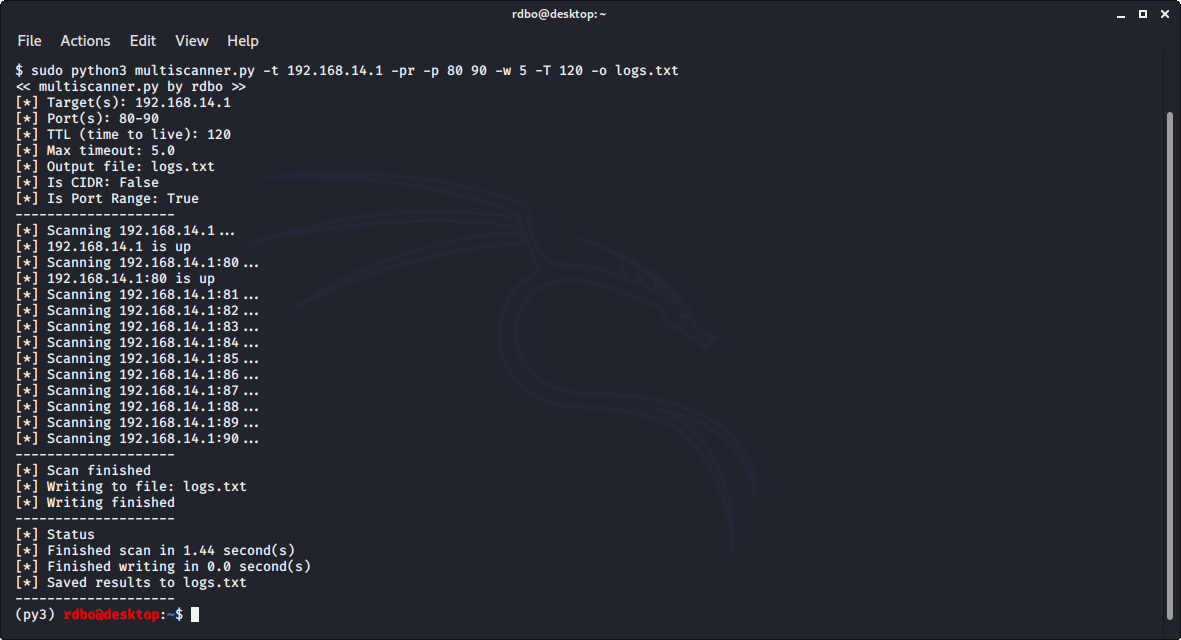
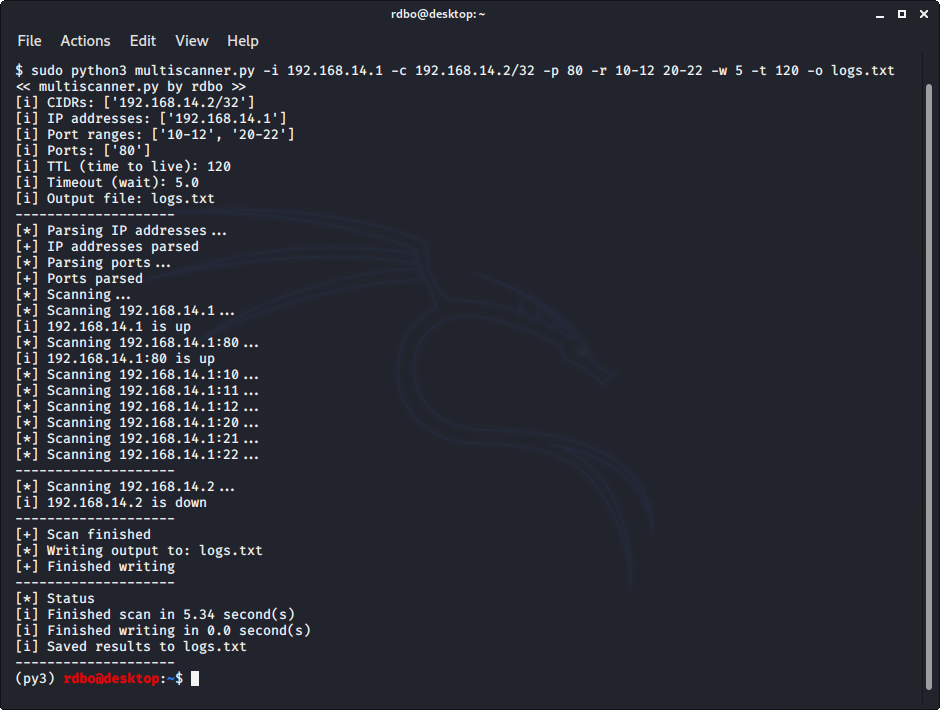
Add files via upload

diff --git a/multiscanner/multiscanner.py b/multiscanner/multiscanner.py
@@ -3,6 +3,7 @@ import argparse
 import datetime
 import time
 import netaddr
+import sys
 from scapy.all import *
 
 def usage():
@@ -17,96 +18,137 @@ def usage():
     print(f"-w (--wait)[optional]:         specify the wait time before timeout")
     print(f"-o (--output)[optional]:       specify the output file")
 
-def multiscan(targets : list, ports : list, wait : float, timetolive : int, output_file : str, is_cidr : bool, is_port_range : bool):
-    target_list = []
-    port_list = []
-    up_targets = []
-    up_ports = {}
-    delay = 0.75
+def multiscan(cidrs : list, ip_addrs : list, port_ranges : list, ports : list, timetolive : int, wait : int, output_file : str):
+
+    #Info
+
     init_str = "<< multiscanner.py by rdbo >>"
     separate_str = "--------------------"
+    delay = 0.5
 
-    #CIDR
-    if(is_cidr == True):
-        for target in targets:
-            try:
-                temp_target_list = [str(ip) for ip in netaddr.IPNetwork(target)]
-                target_list += temp_target_list
-            except:
-                print(f"[!] Error while resolving {target} as CIDR, exiting...")
-                exit(0)
-    else:
-        target_list = targets
+    print(init_str)
+    time.sleep(delay)
+    if(len(cidrs) > 0):
+        print(f"[i] CIDRs: {[cidr for cidr in cidrs]}")
+        time.sleep(delay)
+    if(len(ip_addrs) > 0):
+        print(f"[i] IP addresses: {[ip for ip in ip_addrs]}")
+        time.sleep(delay)
+    if(len(port_ranges) > 0):
+        print(f"[i] Port ranges: {[pr for pr in port_ranges]}")
+        time.sleep(delay)
+    if(len(ports) > 0):
+        print(f"[i] Ports: {[port for port in ports]}")
+        time.sleep(delay)
+    print(f"[i] TTL (time to live): {timetolive}")
+    time.sleep(delay)
+    print(f"[i] Timeout (wait): {wait}")
+    time.sleep(delay)
+    if(len(output_file) > 0):
+        print(f"[i] Output file: {output_file}")
+        time.sleep(delay)
 
-    #Port Range
-    if(is_port_range == True and len(ports) > 0):
-        port_list = [int(port) for port in range(int(ports[0]), int(ports[-1])+1)]
-    elif(len(ports) > 0):
-        port_list = [int(port) for port in ports]
+    print(separate_str)
 
+    #Variables
 
-    try:
-        print(init_str)
-        time.sleep(delay)
-        print(f"[*] Target(s): {', '.join([target for target in targets])}")
-        if(is_port_range == True and len(port_list) > 0):
-            print(f"[*] Port(s): {port_list[0]}-{port_list[-1]}")
-        elif(len(port_list) > 0):
-            print(f"[*] Port(s): {[port for port in port_list]}")
-        time.sleep(delay)
-        print(f"[*] TTL (time to live): {timetolive}")
-        time.sleep(delay)
-        print(f"[*] Max timeout: {wait}")
-        time.sleep(delay)
-        if(len(output_file) > 0):
-            print(f"[*] Output file: {output_file}")
-        time.sleep(delay)
-        print(f"[*] Is CIDR: {is_cidr}")
-        time.sleep(delay)
-        print(f"[*] Is Port Range: {is_port_range}")
-        time.sleep(delay)
-        print(separate_str)
-    except:
-        print()
-        exit(0)
+    ip_list = []
+    up_ip_list = []
+    port_list = []
+    up_port_list = {}
+    proceed_check = False
 
-    begin_scan = time.perf_counter()
-    #Scan
-    for target in target_list:
+    #Parse IP addresses
+    print("[*] Parsing IP addresses...")
+    ip_list += ip_addrs
+
+    for cidr in cidrs:
         try:
-            print(f"[*] Scanning {target}...")
-            up_ports[target] = []
-            packet = IP(dst=target, ttl=timetolive)/ICMP()
+            temp_ip_list = [str(ip) for ip in netaddr.IPNetwork(cidr)]
+            ip_list += temp_ip_list
+        except KeyboardInterrupt:
+            print()
+            print("[!] Interrupted")
+            return 0
+        except:
+            print(f"[!] Error while parsing \"{cidr}\" as CIDR")
+            proceed_check = True
+
+    print("[+] IP addresses parsed")
+
+    #Parse ports
+    print("[*] Parsing ports...")
+    port_list += [int(port) for port in ports]
+    for port in port_ranges:
+        try:
+            port_arr = str(port).split('-')
+            if(len(port_arr) >= 2):
+                for p in range(int(port_arr[0]), int(port_arr[-1]) + 1):
+                    if(p >= 0):
+                        if(p not in port_list):
+                            port_list.append(p)
+                    else:
+                        print(f"[!] Invalid port: \"{p}\"")
+            else:
+                print(f"[!] Invalid port range string \"{port}\". Try: port1-port2.")
+                proceed_check = True
+        except KeyboardInterrupt:
+            print()
+            print("[!] Interrupted")
+            return 0
+        except:
+            print(f"[!] Error while parsing \"{port}\" as a port range")
+            proceed_check = True
+
+    print("[+] Ports parsed")
+
+    #Proceed check
+    if(proceed_check == True):
+        check = input("[#] Errors were found before the start of the scan. Proceed? (y/n): ")
+        if(check == 'n' or check == 'N'):
+            return 0
+
+    #Scan
+    print("[*] Scanning...")
+    begin_scan = time.perf_counter()
+
+    for ip in ip_list:
+        try:
+            print(f"[*] Scanning {ip}...")
+            up_port_list[ip] = []
+            packet = IP(dst=ip, ttl=timetolive)/ICMP()
             reply = sr1(packet, timeout=wait, verbose=False)
             if(reply is not None):
-                print(f"[*] {target} is up")
-                up_targets.append(target)
+                print(f"[i] {ip} is up")
+                up_ip_list.append(ip)
                 for port in port_list:
-                    print(f"[*] Scanning {target}:{port}...")
+                    print(f"[*] Scanning {ip}:{port}...")
                     socket.setdefaulttimeout(wait)
                     soc = socket.socket(socket.AF_INET, socket.SOCK_STREAM)
-                    reply = soc.connect_ex((target, port))
+                    reply = soc.connect_ex((ip, port))
                     if(reply == 0):
-                        print(f"[*] {target}:{port} is up")
-                        up_ports[target].append(port)
+                        print(f"[i] {ip}:{port} is up")
+                        up_port_list[ip].append(port)
             else:
-                print(f"[*] {target} is down")
-            print(separate_str)
+                print(f"[i] {ip} is down")
         except KeyboardInterrupt:
+            print()
             print("[!] Interrupted")
             break
         except:
-            print(f"[!] Exception while scanning {target}")
+            print(f"[!] Exception raised while scanning {ip}")
+            print(f"[!] {sys.exc_info()[0]}")
+        print(separate_str)
 
     end_scan = time.perf_counter()
-    print("[*] Scan finished")
-    scan_time = round(end_scan - begin_scan,2)
+    print("[+] Scan finished")
+    scan_time = round(end_scan - begin_scan, 2)
 
+    #Write to output file
     begin_write = time.perf_counter()
-    #Write to file
     if(len(output_file) > 0):
         try:
-            print(f"[*] Writing to file: {output_file}")
+            print(f"[*] Writing output to: {output_file}")
             file = open(output_file, "a")
             file.write("\n")
             file.write(separate_str + "\n")
@@ -114,70 +156,81 @@ def multiscan(targets : list, ports : list, wait : float, timetolive : int, outp
             file.write(f"[ {'{date:%Y/%m/%d - %H:%M:%S}'.format(date=datetime.now())} ]\n")
             file.write("\n")
             file.write(f"[*] Scan info \n")
-            file.write(f"Target(s): {', '.join([target for target in targets])} \n")
-            if(is_port_range == True and len(port_list) > 0):
-                file.write(f"Port(s): {port_list[0]}-{port_list[-1]}\n")
-            elif(len(port_list) > 0):
-                file.write(f"Port(s): {[port for port in port_list]}\n")
-            else:
-                file.write(f"Port(s): None\n")
-            file.write(f"Max timeout: {wait}\n")
-            file.write(f"TTL (time to live): {timetolive}\n")
-            file.write(f"CIDR Enabled: {str(is_cidr)}\n")
-            file.write(f"Port Range Enabled: {str(is_port_range)}\n")
+            file.write(f"[i] Target(s): [{', '.join([ip for ip in ip_addrs] + [cidr for cidr in cidrs])}]\n")
+            if(len(ports) + len(port_ranges) > 0):
+                file.write(f"[i] Port(s): [{', '.join([port for port in ports] + [pr for pr in port_ranges])}]\n")
+            file.write(f"[i] TTL (time to live): {timetolive}\n")
+            file.write(f"[i] Timeout (wait): {wait}\n")
             file.write("\n")
             file.write("[*] Results\n")
 
-            for target in target_list:
-                if(target in up_targets):
-                    if(len(ports) == 0 or len(up_ports[target]) == 0):
-                        file.write(f"{target} : up\n")
+            for ip in ip_list:
+                if(ip in up_ip_list):
+                    if(len(up_port_list) == 0 or len(up_port_list[ip]) == 0):
+                        file.write(f"{ip}: up\n")
                     else:
-                        file.write(f"{target} : [")
-                        file.write(', '.join([str(port) for port in up_ports[target]]))
+                        file.write(f"{ip} : [")
+                        file.write(", ".join([str(port) for port in up_port_list[ip]]))
                         file.write(f"]\n")
                 else:
-                    file.write(f"{target} : down\n")
-            print("[*] Writing finished")
+                    file.write(f"{ip} : down")
+            
+            print("[+] Finished writing")
+        except KeyboardInterrupt:
+            print("[!] Interrupted")
         except:
-            print(f"[!] Exception while writing to {output_file}")
+            print(f"[!] Exception while writing to file")
+    
     end_write = time.perf_counter()
     write_time = round(end_write - begin_write, 2)
 
     print(separate_str)
     print("[*] Status")
-    print(f"[*] Finished scan in {scan_time} second(s)")
+    print(f"[i] Finished scan in {scan_time} second(s)")
     if(len(output_file) > 0):
-        print(f"[*] Finished writing in {write_time} second(s)")
-        print(f"[*] Saved results to {output_file}")
+        print(f"[i] Finished writing in {write_time} second(s)")
+        print(f"[i] Saved results to {output_file}")
 
     print(separate_str)
 
 if (__name__ == "__main__"):
     parser = argparse.ArgumentParser(add_help=False)
     parser.add_argument("-h", "--help", action="store_true", dest="help", default="False")
-    parser.add_argument("-c", "--cidr", action="store_true", dest="is_cidr", default="False")
-    parser.add_argument("-t", "--targets", type=str, nargs="+", action="store", dest="targets", default="")
-    parser.add_argument("-o", "--output", type=str, action="store", dest="output", default="")
-    parser.add_argument("-pr", "--port-range", action="store_true", dest="is_port_range", default="False")
-    parser.add_argument("-p", "--ports", type=str, nargs="+", action="store", dest="ports", default="")
-    parser.add_argument("-T", "--ttl", type=int, action="store", dest="ttl", default="64")
+    parser.add_argument("-c", "--cidrs", type=str, nargs="+", action="store", dest="cidrs", default="")
+    parser.add_argument("-i", "--ip", type=str, nargs="+", action="store", dest="ips", default="")
+    parser.add_argument("-r", "--port-ranges", type=str, nargs="+", action="store", dest="port_ranges", default="")
+    parser.add_argument("-p", "--port", type=str, nargs="+", action="store", dest="ports", default="")
+    parser.add_argument("-t", "--ttl", type=int, action="store", dest="ttl", default="64")
     parser.add_argument("-w", "--wait", type=float, action="store", dest="wait", default="1")
+    parser.add_argument("-o", "--output", type=str, action="store", dest="output", default="")
     args = parser.parse_args()
+
     try:
-        help_param = args.help
-        target_list = args.targets
-        port_list = args.ports
-        wait = args.wait
-        output = args.output
-        ttl = args.ttl
-        is_cidr = args.is_cidr
-        is_port_range = args.is_port_range
+        var_help = args.help
+        var_cidrs = args.cidrs
+        var_ip_addrs = args.ips
+        var_output = args.output
+        var_port_ranges = args.port_ranges
+        var_ports = args.ports
+        var_ttl = args.ttl
+        var_wait = args.wait
     except:
+        print("[!] Unable to parse arguments")
         usage()
         exit(0)
 
-    if(help_param == True or len(target_list) == 0 or wait < 0 or ttl < 0 or (is_port_range == True and len(port_list) != 2)):
+    if(var_help == True or len(var_cidrs) + len(var_ip_addrs) < 1 or var_ttl < 1 or var_wait < 0):
         usage()
         exit(0)
-    multiscan(target_list, port_list, wait, ttl, output, is_cidr, is_port_range)
+    
+    try:
+        multiscan(var_cidrs, var_ip_addrs, var_port_ranges, var_ports, var_ttl, var_wait, var_output)
+    except KeyboardInterrupt:
+        print()
+        print("[!] Interrupted")
+        exit(0)
+    except SystemExit:
+        exit(0)
+    except:
+        print("[!] Exception raised, exiting...")
+        exit(0)
